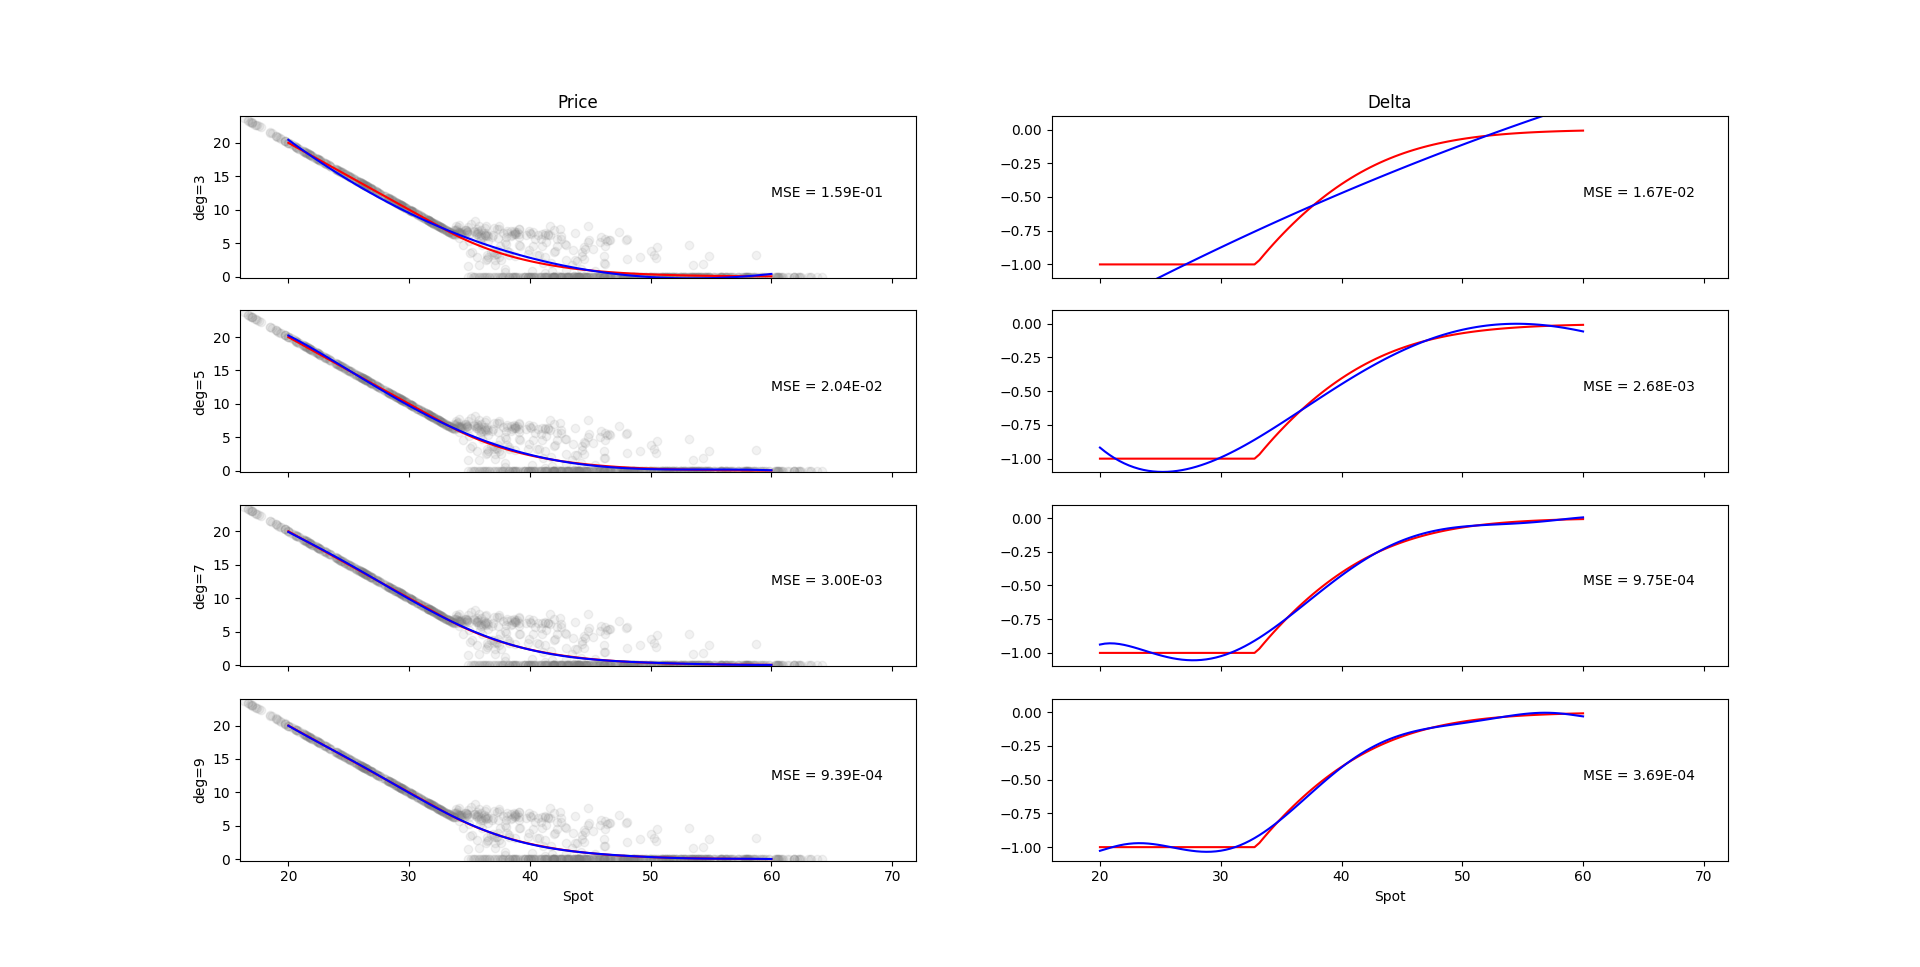
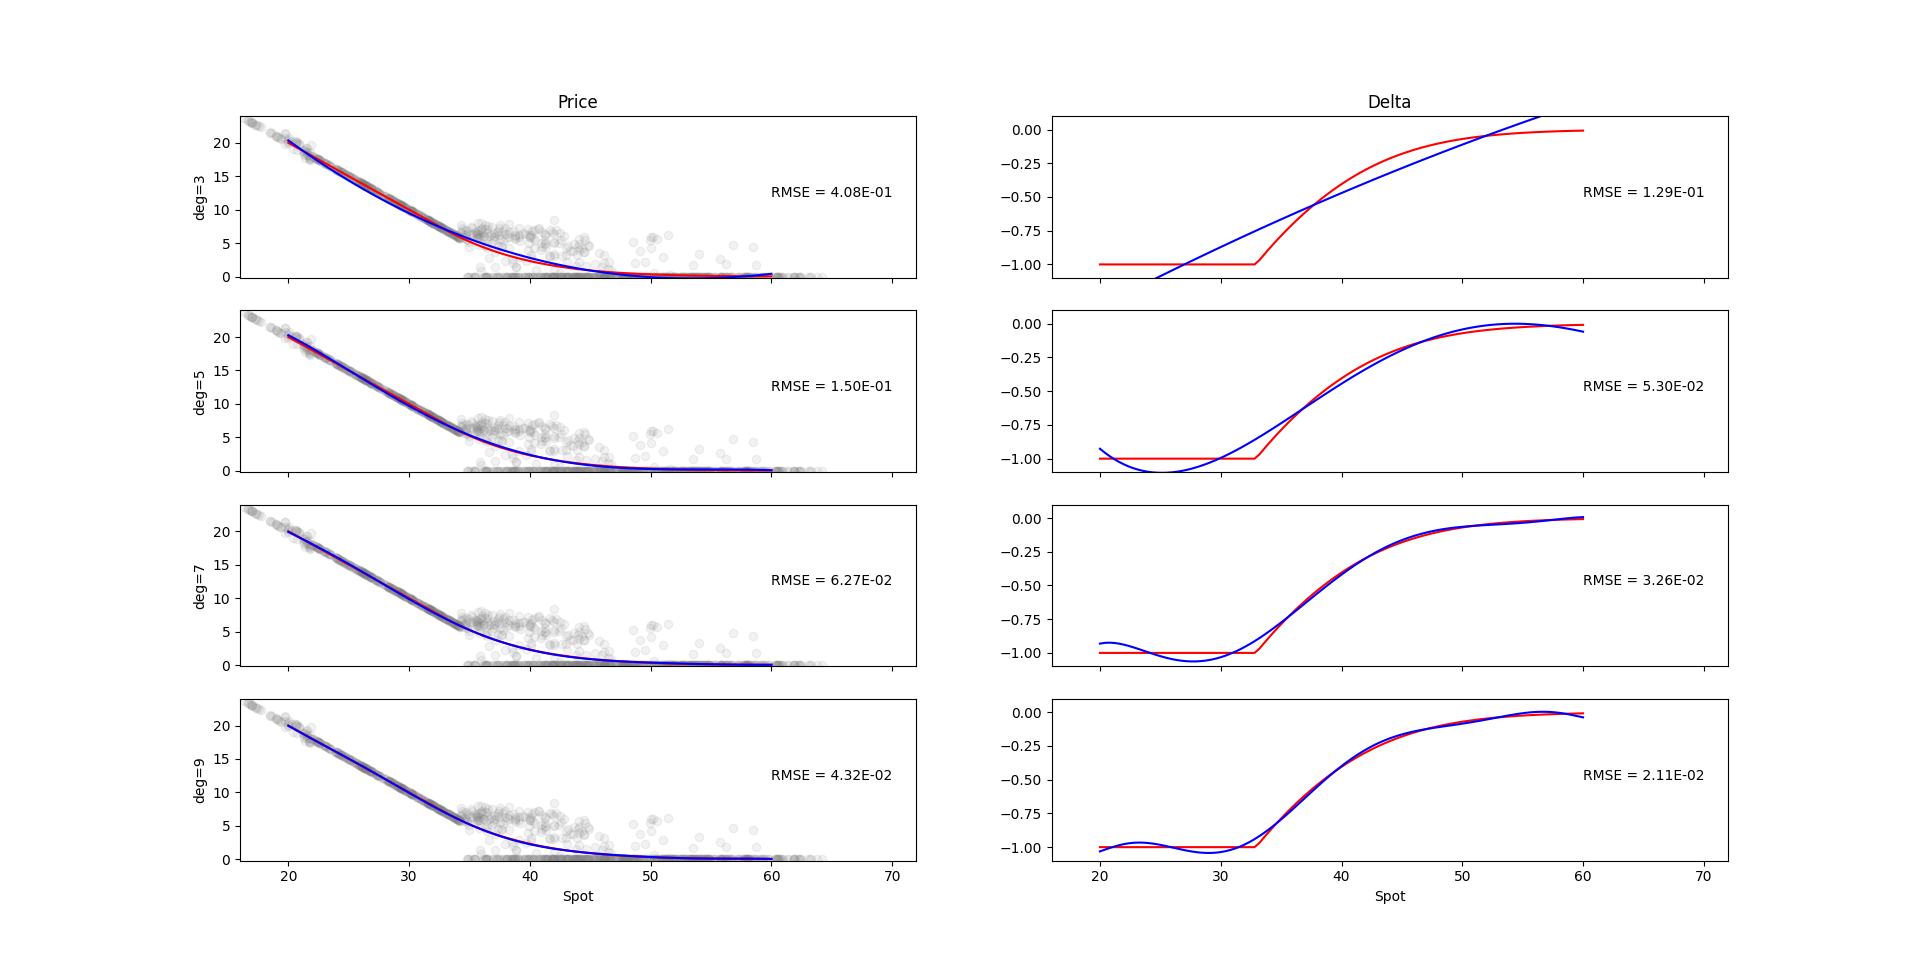
Updated Letourneau & Stentoft experiments

diff --git a/application/expiriments/letourneau_and_stentoft_final_model.py b/application/expiriments/letourneau_and_stentoft_final_model.py
@@ -1,0 +1,121 @@
+import numpy as np
+import matplotlib.pyplot as plt
+from application.models.LetourneauStentoft import ISD
+from application.simulation.sim_gbm import GBM
+from application.Longstaff_Schwartz.LSMC import LSMC
+from application.utils.LSMC_fit_predict import fit_poly, pred_poly
+from application.options.payoff import european_payoff
+from application.binomial_model.binomial_model import binomial_tree_bs
+
+
+if __name__ == '__main__':
+    # Fixed parameters
+    t0 = 0.0
+    T = 1.0
+    x0 = 40.0
+    M = 50
+    r = 0.06
+    sigma = 0.2
+    K = 40.0
+    seed = 1234
+    deg_lsmc = 9
+    option_type = 'PUT'
+
+    # Alpha to plot error for
+    deg_stentoft = 9
+    N = 16384
+    alpha = 25
+
+    # Define range of test spots
+    x_test = np.linspace(start=20.0, stop=60.0, num=101, endpoint=True)
+
+    # Binomial model to test against (as "true" prices and deltas)
+    binom_price = np.full_like(x_test, np.nan)
+    binom_delta = np.full_like(x_test, np.nan)
+
+    for i, x in enumerate(x_test):
+        binom = binomial_tree_bs(K=K, T=T, S0=x, r=r, sigma=sigma, M=2500, payoff_func=european_payoff,
+                                 option_type=option_type, eur_amr='AMR')
+        binom_price[i] = binom[0]
+        binom_delta[i] = binom[1]
+
+    # Auxiliary variables
+    t = np.linspace(start=t0, stop=T, num=M + 1, endpoint=True)
+
+    # ------------------------------------- #
+    # Analysis of Letourneau & Stentoft     #
+    # ------------------------------------- #
+
+    # Initiate spots using Initial State Dispersion (ISD)
+    x_isd = ISD(N=N, x0=x0, alpha=alpha, seed=seed)
+
+    # Simulate paths as GBM
+    gbm = GBM(t=t, x0=x_isd, N=N, mu=r, sigma=sigma, seed=seed, use_av=True)
+    gbm.sim_exact()
+
+    # Run Longstaff-Schwarch Monte Carlo method
+    lsmc = LSMC(simulator=gbm, K=K, r=r, payoff_func=european_payoff, option_type=option_type)
+    lsmc.run_backwards(fit_func=fit_poly, pred_func=pred_poly, deg=deg_lsmc)
+
+    # Extract (pathwise) payoffs
+    cf = lsmc.payoff
+    cf = np.sum((cf * lsmc.opt_stopping_rule), axis=0)
+
+    # Calculate discount factor
+    df = [np.exp(-r * tau) if ~np.isnan(tau) else 0.0 for tau in lsmc.pathwise_opt_stopping_time]
+
+    # Calculate (pathwise) discounted cashflows
+    cf_pv = cf * df
+
+    # Fit polynomials for price and delta
+    coef_price = fit_poly(x=x_isd - x0, y=cf_pv, deg=deg_stentoft)  # coefficients `b`
+    coef_delta = np.polyder(coef_price, 1)
+
+    # Predict price and delta
+    price = pred_poly(x=x_test - x0, fit=coef_price)
+    delta = pred_poly(x=x_test - x0, fit=coef_delta)
+
+    # Calculate error across spots
+    err_price = price - binom_price
+    err_delta = delta - binom_delta
+
+    # Calculate mse for prices and delta
+    rmse_price = np.sqrt(np.mean(err_price ** 2))
+    rmse_delta = np.sqrt(np.mean(err_delta ** 2))
+
+    # Plot
+    fig, ax = plt.subplots(nrows=2, ncols=2, sharex='all')
+    ax[0, 0].set_title('Price')
+    ax[0, 1].set_title('Delta')
+    ax[1, 0].set_xlabel('Spot')
+    ax[1, 1].set_xlabel('Spot')
+    ax[1, 0].hlines(0.0, 0.8 * np.min(x_test), 1.2 * np.max(x_test), color='red', linestyles='dashed')
+    ax[1, 1].hlines(0.0, 0.8 * np.min(x_test), 1.2 * np.max(x_test), color='red', linestyles='dashed')
+    ax[0, 0].set_ylabel('')
+    ax[1, 0].set_ylabel('Error')
+
+
+    # Subplot for price
+    ax[0, 0].plot(x_test, binom_price, color='red')
+    ax[0, 0].scatter(x_isd[:1000], cf_pv[:1000], color='grey', alpha=0.1)
+    ax[0, 0].plot(x_test, price, color='blue')
+    ax[0, 0].set_xlim(0.8 * np.min(x_test), 1.2 * np.max(x_test))
+    ax[0, 0].set_ylim(-0.2, 1.2 * np.max(binom_price))
+    ax[0, 0].text(60, (-0.2 + 1.2 * np.max(binom_price)) / 2, 'RMSE = {:.2E}'.format(rmse_price))
+
+    # Subplot for delta
+    ax[0, 1].plot(x_test, binom_delta, color='red')
+    ax[0, 1].plot(x_test, delta, color='blue')
+    ax[0, 1].set_xlim(0.8 * np.min(x_test), 1.2 * np.max(x_test))
+    ax[0, 1].set_ylim(-1.1, 0.1)
+    ax[0, 1].text(60, (-1.1 + 0.1) / 2, 'RMSE = {:.2E}'.format(rmse_delta))
+
+    # Subplot for price (error)
+    ax[1, 0].plot(x_test, err_price, color='blue')
+    ax[1, 0].set_ylim(-0.11, 0.07)
+
+    # Subplot for price (error)
+    ax[1, 1].plot(x_test, err_delta, color='blue')
+    ax[1, 1].set_ylim(-0.11, 0.07)
+
+    plt.show()

diff --git a/application/expiriments/letourneau_and_stentoft_choose_N.py b/application/expiriments/letourneau_and_stentoft_choose_N.py
@@ -14,21 +14,21 @@ if __name__ == '__main__':
     t0 = 0.0
     T = 1.0
     x0 = 40.0
-    N = 16384
     M = 50
     r = 0.06
     sigma = 0.2
     K = 40.0
     seed = 1234
     deg_lsmc = 9
+    deg_stentoft = 9
     option_type = 'PUT'
     alpha = 25.0
 
-    # Deg to plot error for
-    deg_ = 9
+    # N to plot error for
+    N_ = 16384
 
     # Degrees to vary
-    deg_stentoft = [3, 5, 7, 9]
+    N = [256*4**i for i in range(5)]
 
     # Define range of test spots
     x_test = np.linspace(start=20.0, stop=60.0, num=101, endpoint=True)
@@ -51,16 +51,16 @@ if __name__ == '__main__':
     # ------------------------------------- #
 
     # Mean squared error (MSE)
-    rmse_price = np.zeros_like(deg_stentoft, dtype=np.float64)
-    rmse_delta = np.zeros_like(deg_stentoft, dtype=np.float64)
+    rmse_price = np.zeros_like(N, dtype=np.float64)
+    rmse_delta = np.zeros_like(N, dtype=np.float64)
 
     # Create figures
-    fig, ax = plt.subplots(nrows=len(deg_stentoft), ncols=2, sharex='col')
+    fig, ax = plt.subplots(nrows=len(N), ncols=2, sharex='col')
     ax[0, 0].set_title('Price')
     ax[0, 1].set_title('Delta')
-    ax[len(deg_stentoft)-1, 0].set_xlabel('Spot')
-    ax[len(deg_stentoft)-1, 1].set_xlabel('Spot')
-    
+    ax[len(N) - 1, 0].set_xlabel('Spot')
+    ax[len(N) - 1, 1].set_xlabel('Spot')
+
     fig_err, ax_err = plt.subplots(nrows=1, ncols=2, sharex='col', sharey='all')
     ax_err[0].set_title('Price')
     ax_err[1].set_title('Delta')
@@ -70,12 +70,12 @@ if __name__ == '__main__':
     ax_err[1].hlines(0.0, 0.8 * np.min(x_test), 1.2 * np.max(x_test), color='red', linestyles='dashed')
     ax_err[0].set_ylabel('')
 
-    for i, d in tqdm(enumerate(deg_stentoft)):
+    for i, n in tqdm(enumerate(N)):
         # Initiate spots using Initial State Dispersion (ISD)
-        x_isd = ISD(N=N, x0=x0, alpha=alpha, seed=seed)
+        x_isd = ISD(N=n, x0=x0, alpha=alpha, seed=seed)
 
         # Simulate paths as GBM
-        gbm = GBM(t=t, x0=x_isd, N=N, mu=r, sigma=sigma, seed=seed, use_av=True)
+        gbm = GBM(t=t, x0=x_isd, N=n, mu=r, sigma=sigma, seed=seed, use_av=True)
         gbm.sim_exact()
 
         # Run Longstaff-Schwarch Monte Carlo method
@@ -93,7 +93,7 @@ if __name__ == '__main__':
         cf_pv = cf * df
 
         # Fit polynomials for price and delta
-        coef_price = fit_poly(x=x_isd - x0, y=cf_pv, deg=d)  # coefficients `b`
+        coef_price = fit_poly(x=x_isd - x0, y=cf_pv, deg=deg_stentoft)  # coefficients `b`
         coef_delta = np.polyder(coef_price, 1)
 
         # Predict price and delta
@@ -112,21 +112,21 @@ if __name__ == '__main__':
         ax[i, 0].plot(x_test, binom_price, color='red')
         ax[i, 0].scatter(x_isd[:1000], cf_pv[:1000], color='grey', alpha=0.1)
         ax[i, 0].plot(x_test, price, color='blue')
-        ax[i, 0].set_ylabel('deg={}'.format(d))
-        ax[i, 0].set_xlim(0.8*np.min(x_test), 1.2*np.max(x_test))
-        ax[i, 0].set_ylim(-0.2, 1.2*np.max(binom_price))
-        ax[i, 0].text(60, (-0.2+1.2*np.max(binom_price))/2, 'RMSE = {:.2E}'.format(rmse_price[i]))
+        ax[i, 0].set_ylabel('N={}'.format(n))
+        ax[i, 0].set_xlim(0.8 * np.min(x_test), 1.2 * np.max(x_test))
+        ax[i, 0].set_ylim(-0.2, 1.2 * np.max(binom_price))
+        ax[i, 0].text(60, (-0.2 + 1.2 * np.max(binom_price)) / 2, 'RMSE = {:.2E}'.format(rmse_price[i]))
 
         # Add subplot for delta
         ax[i, 1].plot(x_test, binom_delta, color='red')
         ax[i, 1].plot(x_test, delta, color='blue')
-        ax[i, 1].set_xlim(0.8*np.min(x_test), 1.2*np.max(x_test))
+        ax[i, 1].set_xlim(0.8 * np.min(x_test), 1.2 * np.max(x_test))
         ax[i, 1].set_ylim(-1.1, 0.1)
-        ax[i, 1].text(60, (-1.1 + 0.1)/2, 'RMSE = {:.2E}'.format(rmse_delta[i]))
+        ax[i, 1].text(60, (-1.1 + 0.1) / 2, 'RMSE = {:.2E}'.format(rmse_delta[i]))
 
         # Subplot for errors across spots
-        if d == deg_:
-            ax_err[0].plot(x_test, err_price, color='blue')
-            ax_err[1].plot(x_test, err_delta, color='blue')
+        if n == N_:
+            ax_err[0].plot(x_test, err_price, color='blue', alpha=(i+1)/len(N), label=n)
+            ax_err[1].plot(x_test, err_delta, color='blue', alpha=(i+1)/len(N), label=n)
 
     plt.show()

diff --git a/application/expiriments/letourneau_and_stentoft_choose_alpha.py b/application/expiriments/letourneau_and_stentoft_choose_alpha.py
@@ -13,7 +13,7 @@ if __name__ == '__main__':
     t0 = 0.0
     T = 1.0
     x0 = 40.0
-    N = 100000
+    N = 16384
     M = 50
     r = 0.06
     sigma = 0.2
@@ -22,6 +22,9 @@ if __name__ == '__main__':
     deg_lsmc = 9
     deg_stentoft = 9
     option_type = 'PUT'
+
+    # Alpha to plot error for
+    alpha_ = 25
 
     # Alphas to vary
     alpha = [5, 10, 25, 50, 100]
@@ -47,8 +50,8 @@ if __name__ == '__main__':
     # ------------------------------------- #
 
     # Mean squared error (MSE)
-    mse_price = np.zeros_like(alpha, dtype=np.float64)
-    mse_delta = np.zeros_like(alpha, dtype=np.float64)
+    rmse_price = np.zeros_like(alpha, dtype=np.float64)
+    rmse_delta = np.zeros_like(alpha, dtype=np.float64)
 
     # Create figures
     fig, ax = plt.subplots(nrows=len(alpha), ncols=2, sharex='col')
@@ -56,6 +59,15 @@ if __name__ == '__main__':
     ax[0, 1].set_title('Delta')
     ax[len(alpha)-1, 0].set_xlabel('Spot')
     ax[len(alpha)-1, 1].set_xlabel('Spot')
+
+    fig_err, ax_err = plt.subplots(nrows=1, ncols=2, sharex='col', sharey='all')
+    ax_err[0].set_title('Price')
+    ax_err[1].set_title('Delta')
+    ax_err[0].set_xlabel('Spot')
+    ax_err[1].set_xlabel('Spot')
+    ax_err[0].hlines(0.0, 0.8 * np.min(x_test), 1.2 * np.max(x_test), color='red', linestyles='dashed')
+    ax_err[1].hlines(0.0, 0.8 * np.min(x_test), 1.2 * np.max(x_test), color='red', linestyles='dashed')
+    ax_err[0].set_ylabel('')
 
     for i, a in enumerate(alpha):
         # Initiate spots using Initial State Dispersion (ISD)
@@ -87,9 +99,13 @@ if __name__ == '__main__':
         price = pred_poly(x=x_test - x0, fit=coef_price)
         delta = pred_poly(x=x_test - x0, fit=coef_delta)
 
+        # Calculate error across spots
+        err_price = price - binom_price
+        err_delta = delta - binom_delta
+
         # Calculate mse for prices and delta
-        mse_price[i] = np.mean((price - binom_price)**2)
-        mse_delta[i] = np.mean((delta - binom_delta) ** 2)
+        rmse_price[i] = np.sqrt(np.mean(err_price ** 2))
+        rmse_delta[i] = np.sqrt(np.mean(err_delta ** 2))
 
         # Add subplot for price
         ax[i, 0].plot(x_test, binom_price, color='red')
@@ -98,13 +114,18 @@ if __name__ == '__main__':
         ax[i, 0].set_ylabel('α={:.1f}'.format(a))
         ax[i, 0].set_xlim(0.8*np.min(x_test), 1.2*np.max(x_test))
         ax[i, 0].set_ylim(-0.2, 1.2*np.max(binom_price))
-        ax[i, 0].text(60, (-0.2+1.2*np.max(binom_price))/2, 'MSE = {:.2E}'.format(mse_price[i]))
+        ax[i, 0].text(60, (-0.2+1.2*np.max(binom_price))/2, 'RMSE = {:.2E}'.format(rmse_price[i]))
 
         # Add subplot for delta
         ax[i, 1].plot(x_test, binom_delta, color='red')
         ax[i, 1].plot(x_test, delta, color='blue')
         ax[i, 1].set_xlim(0.8*np.min(x_test), 1.2*np.max(x_test))
         ax[i, 1].set_ylim(-1.1, 0.1)
-        ax[i, 1].text(60, (-1.1 + 0.1)/2, 'MSE = {:.2E}'.format(mse_delta[i]))
+        ax[i, 1].text(60, (-1.1 + 0.1)/2, 'RMSE = {:.2E}'.format(rmse_delta[i]))
+
+        # Subplot for errors across spots
+        if a == alpha_:
+            ax_err[0].plot(x_test, err_price, color='blue')
+            ax_err[1].plot(x_test, err_delta, color='blue')
 
     plt.show()

diff --git a/application/expiriments/delta_hedge_diff_reg.py b/application/expiriments/delta_hedge_diff_reg.py
@@ -3,7 +3,7 @@ import matplotlib.pyplot as plt
 from tqdm import tqdm
 from application.binomial_model.binomial_model import binomial_tree_bs
 from application.models.LetourneauStentoft import ISD
-from application.models.differential_regression import DifferentialRegression
+from application.models.regressionModels import DifferentialRegression
 from application.simulation.sim_gbm import GBM
 from application.Longstaff_Schwartz.LSMC import LSMC
 from application.utils.LSMC_fit_predict import fit_poly, pred_poly
@@ -29,11 +29,10 @@ def simulate_pathwise_data(t, N, r, sigma, K, eeb, option_type, vol_mult=1.0):
 
     df = np.exp(-r * tau)
 
-    one = ~np.isnan(tau)
     S_tau = np.array([S[j, i] for i, j in enumerate(tau_idx)])
 
     payoff = df * european_payoff(x=S_tau, K=K, option_type=option_type)
-    delta = - df * S_tau / spot * one
+    delta = - df * np.where(S_tau > K, S_tau / spot, 0.0)  # TODO Check this
 
     # plt.scatter(spot, payoff, alpha=0.05)
     # plt.show()

diff --git a/application/models/LetourneauStentoft.py b/application/models/LetourneauStentoft.py
@@ -101,12 +101,12 @@ if __name__ == '__main__':
     t0 = 0.0
     T = 1.0
     x0 = 40.0
-    N = 100000
+    N = 16384
     M = 50
     r = 0.06
     sigma = 0.2
     K = 40.0
-    seed = 9999
+    seed = 1234
     deg_lsmc = 9
     deg_stentoft = 9
     option_type = 'PUT'
